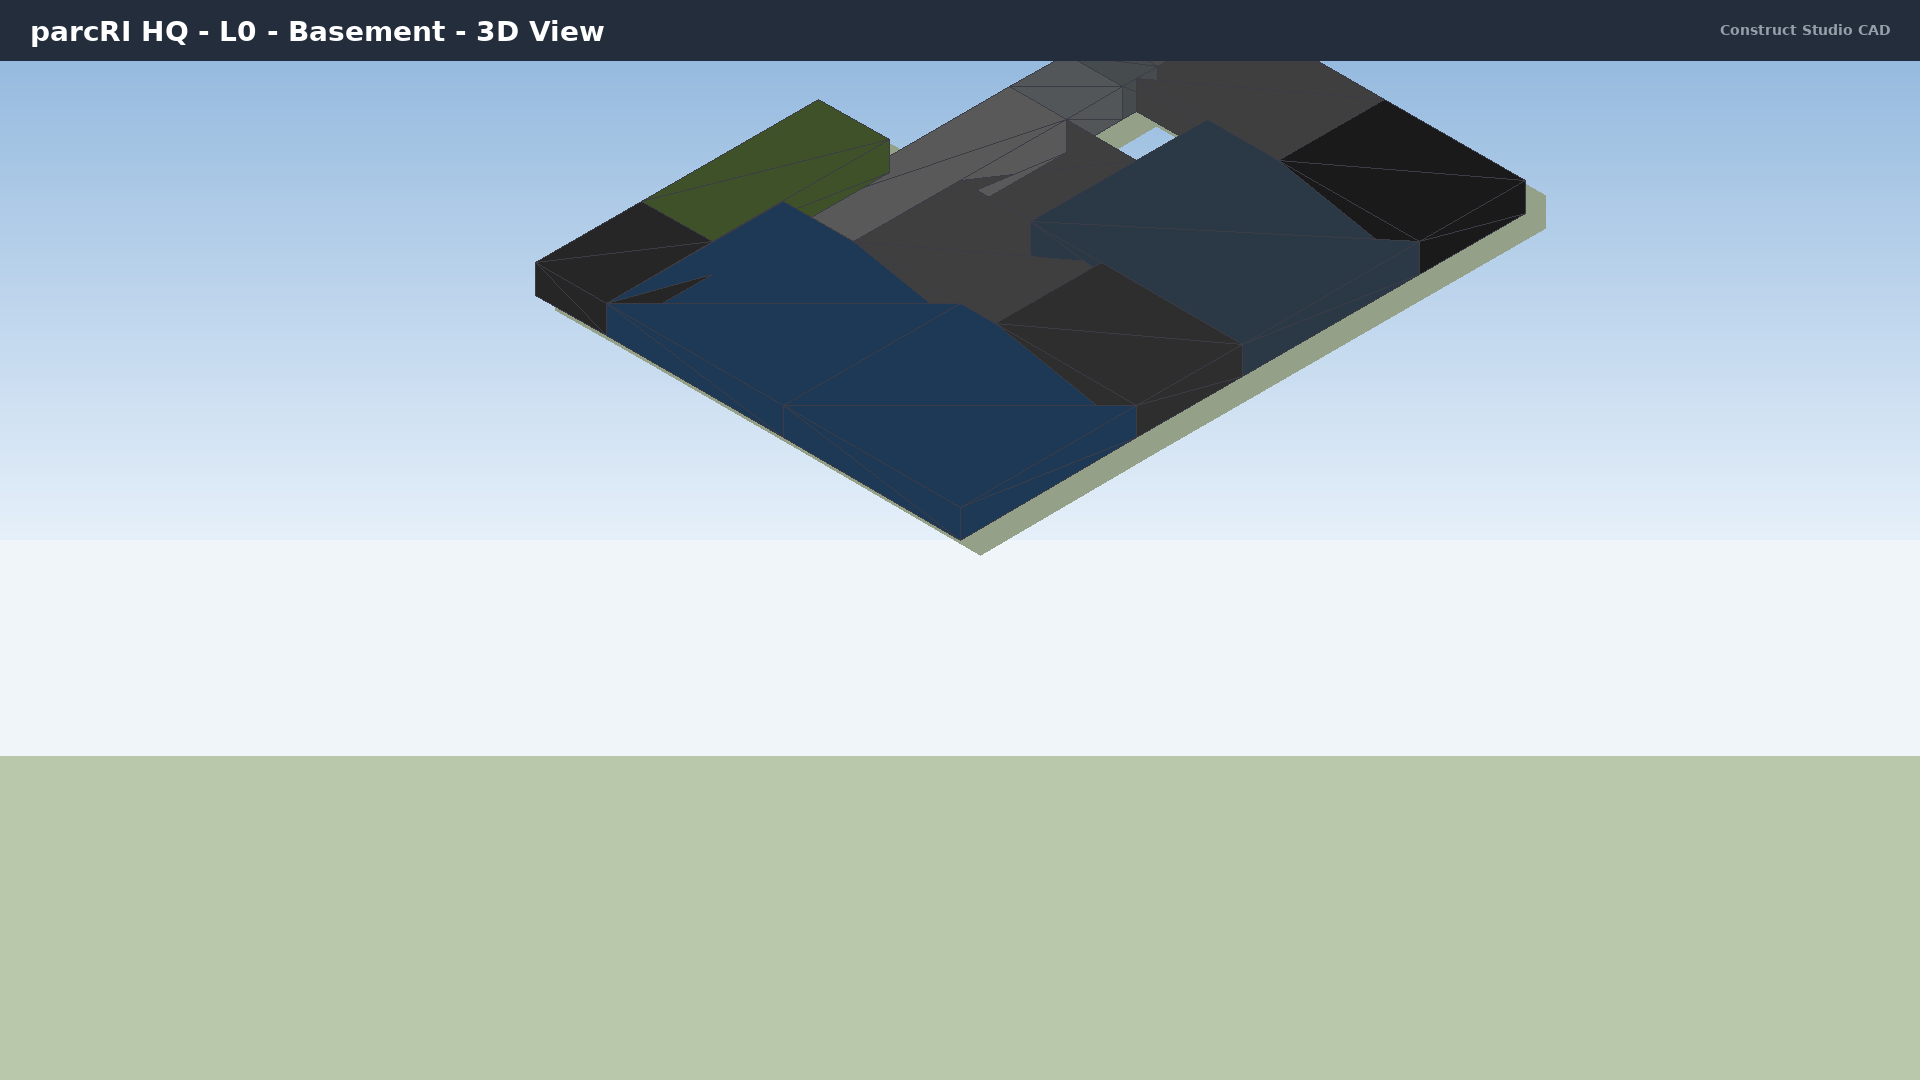
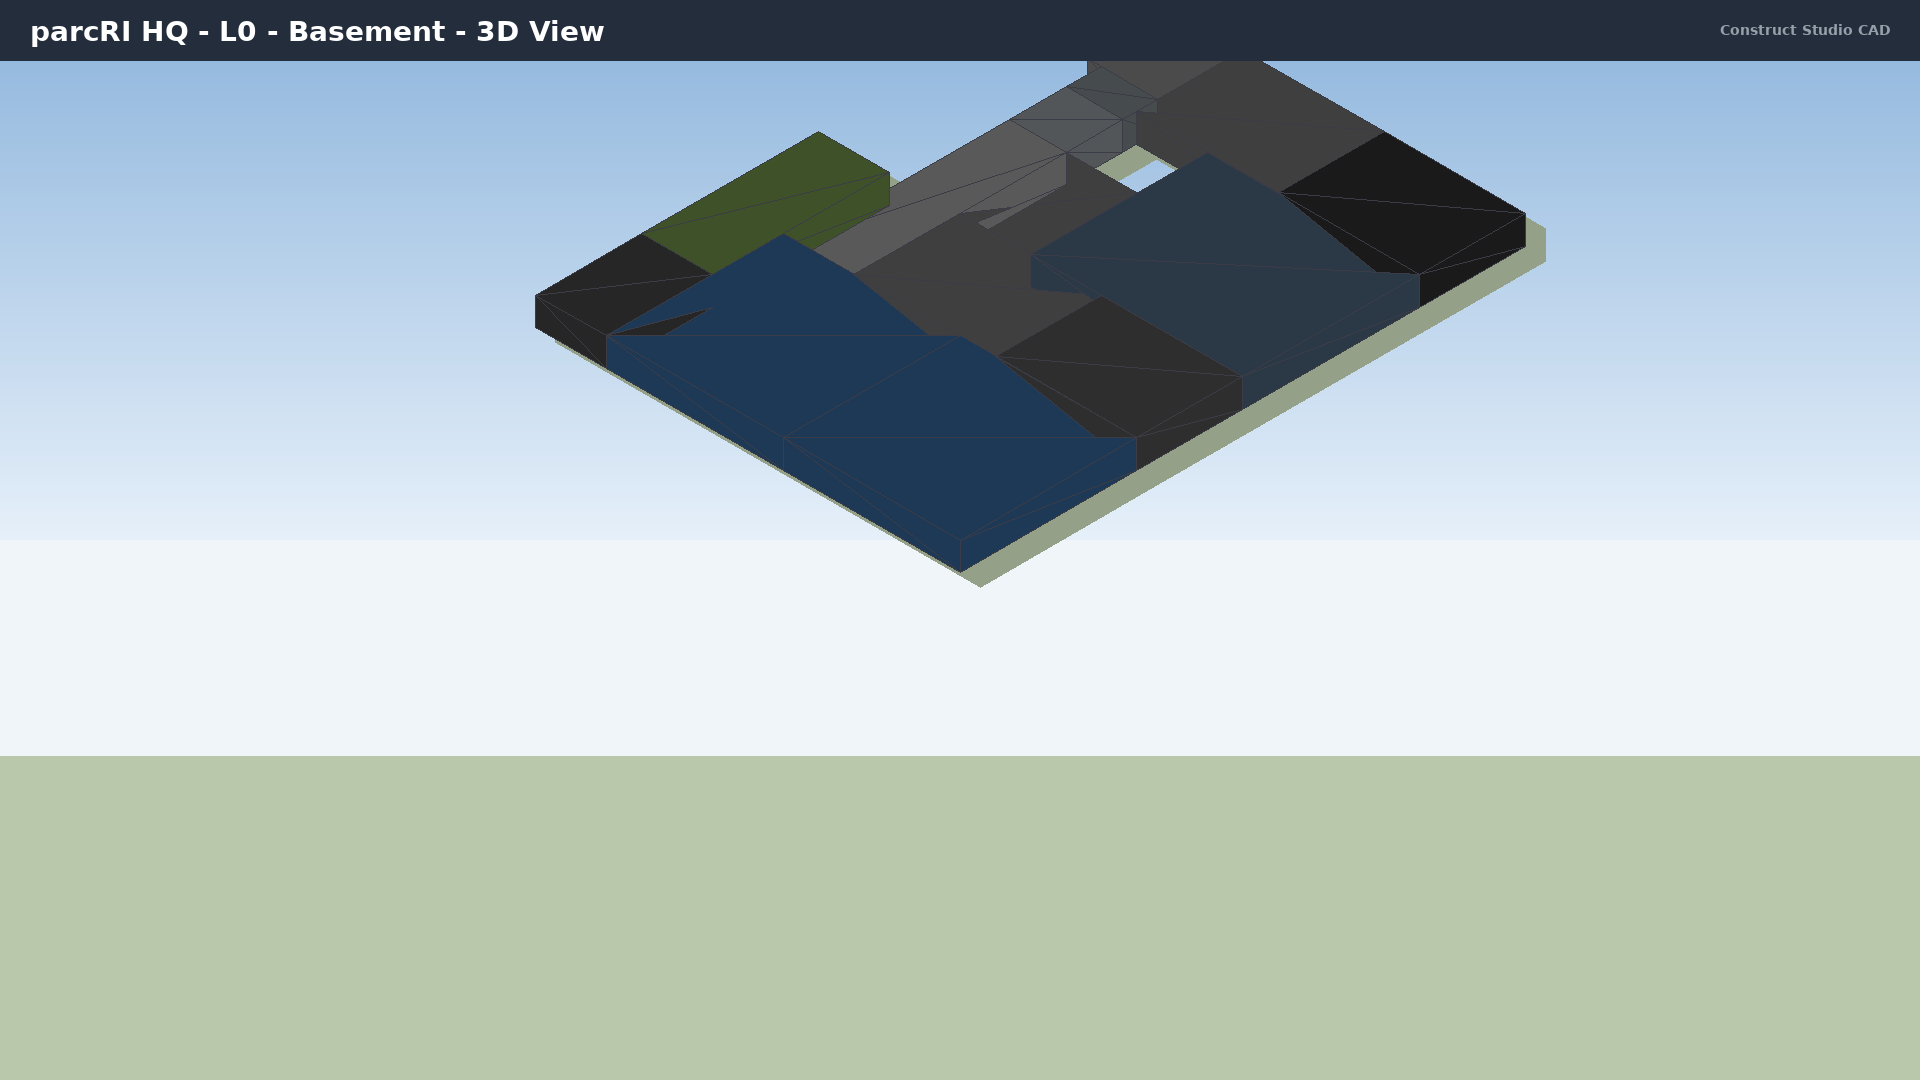
fix(cad): Ground basement levels properly in 3D renders
Basement level was floating in air because it rendered at negative
elevation while ground plane was at z=0. Now single-level basement
views apply z_offset to lift geometry to grade level, showing an
architectural section cut style view with basement sitting on ground.

Changed region(s): [[0.2812, 0.0306, 0.8125, 0.55]]

diff --git a/construct-studio/cad/render3d_parcri.py b/construct-studio/cad/render3d_parcri.py
@@ -52,14 +52,24 @@ def building_to_3d_data(building) -> List[Dict]:
     return levels_data
 
 
-def create_detailed_building_mesh(levels_data: List[Dict]) -> List:
+def create_detailed_building_mesh(levels_data: List[Dict], z_offset: float = 0) -> List:
     """Create detailed 3D mesh from level data."""
+    return create_detailed_building_mesh_with_offset(levels_data, z_offset)
+
+
+def create_detailed_building_mesh_with_offset(levels_data: List[Dict], z_offset: float = 0) -> List:
+    """Create detailed 3D mesh from level data with optional z offset.
+
+    Args:
+        levels_data: Level definitions with spaces
+        z_offset: Vertical offset to apply (e.g., to lift basement to grade)
+    """
     from cad.geometry3d import Triangle, Box
 
     all_triangles = []
 
     for level in levels_data:
-        elevation = level.get('elevation', 0)
+        elevation = level.get('elevation', 0) + z_offset  # Apply offset
         height = level.get('height', 4)
 
         for space in level.get('spaces', []):
@@ -95,11 +105,16 @@ def render_parcri_3d(
     """
     # Get building data
     building = create_parcri_hq()
-    levels_data = building_to_3d_data(building)
+    all_levels_data = building_to_3d_data(building)
 
-    # Filter levels if requested
+    # Determine if we're showing a basement level
+    is_basement_view = False
     if show_single_level is not None:
-        levels_data = [levels_data[show_single_level]]
+        level_to_show = all_levels_data[show_single_level]
+        is_basement_view = level_to_show.get('elevation', 0) < 0
+        levels_data = [level_to_show]
+    else:
+        levels_data = all_levels_data
 
     # Create config
     config = Render3DConfig(
@@ -124,13 +139,11 @@ def render_parcri_3d(
     # Create renderer
     renderer = Renderer3D(config)
 
-    # Create mesh
-    triangles = create_detailed_building_mesh(levels_data)
-
-    # Calculate bounds
+    # Calculate bounds first (need for ground plane positioning)
     min_x = min_y = float('inf')
     max_x = max_y = float('-inf')
-    max_z = 0
+    min_z = float('inf')
+    max_z = float('-inf')
 
     for level in levels_data:
         elevation = level.get('elevation', 0)
@@ -140,9 +153,19 @@ def render_parcri_3d(
             min_y = min(min_y, space['y'])
             max_x = max(max_x, space['x'] + space['width'])
             max_y = max(max_y, space['y'] + space['height'])
+            min_z = min(min_z, elevation)
             max_z = max(max_z, elevation + height)
 
-    # Add ground plane
+    # For basement views, shift geometry up so it sits ON the ground
+    # (architectural section cut showing basement at grade)
+    z_offset = 0
+    if is_basement_view and min_z < 0:
+        z_offset = -min_z  # Shift up so bottom is at z=0
+
+    # Create mesh with z_offset applied
+    triangles = create_detailed_building_mesh_with_offset(levels_data, z_offset)
+
+    # Add ground plane at z=0 (after offset, geometry sits on it)
     ground_size = max(max_x - min_x, max_y - min_y) * 2
     ground_tris = create_ground_plane(
         ground_size,
@@ -151,11 +174,15 @@ def render_parcri_3d(
     )
     triangles.extend(ground_tris)
 
-    # Set camera
+    # Adjust bounds for camera after offset
+    min_z += z_offset
+    max_z += z_offset
+
+    # Set camera - center on the geometry
     center = Vec3(
         (max_x + min_x) / 2,
         (max_y + min_y) / 2,
-        max_z / 2
+        (max_z + min_z) / 2  # Proper center accounting for actual z range
     )
     distance = max(max_x - min_x, max_y - min_y) * 2
 
